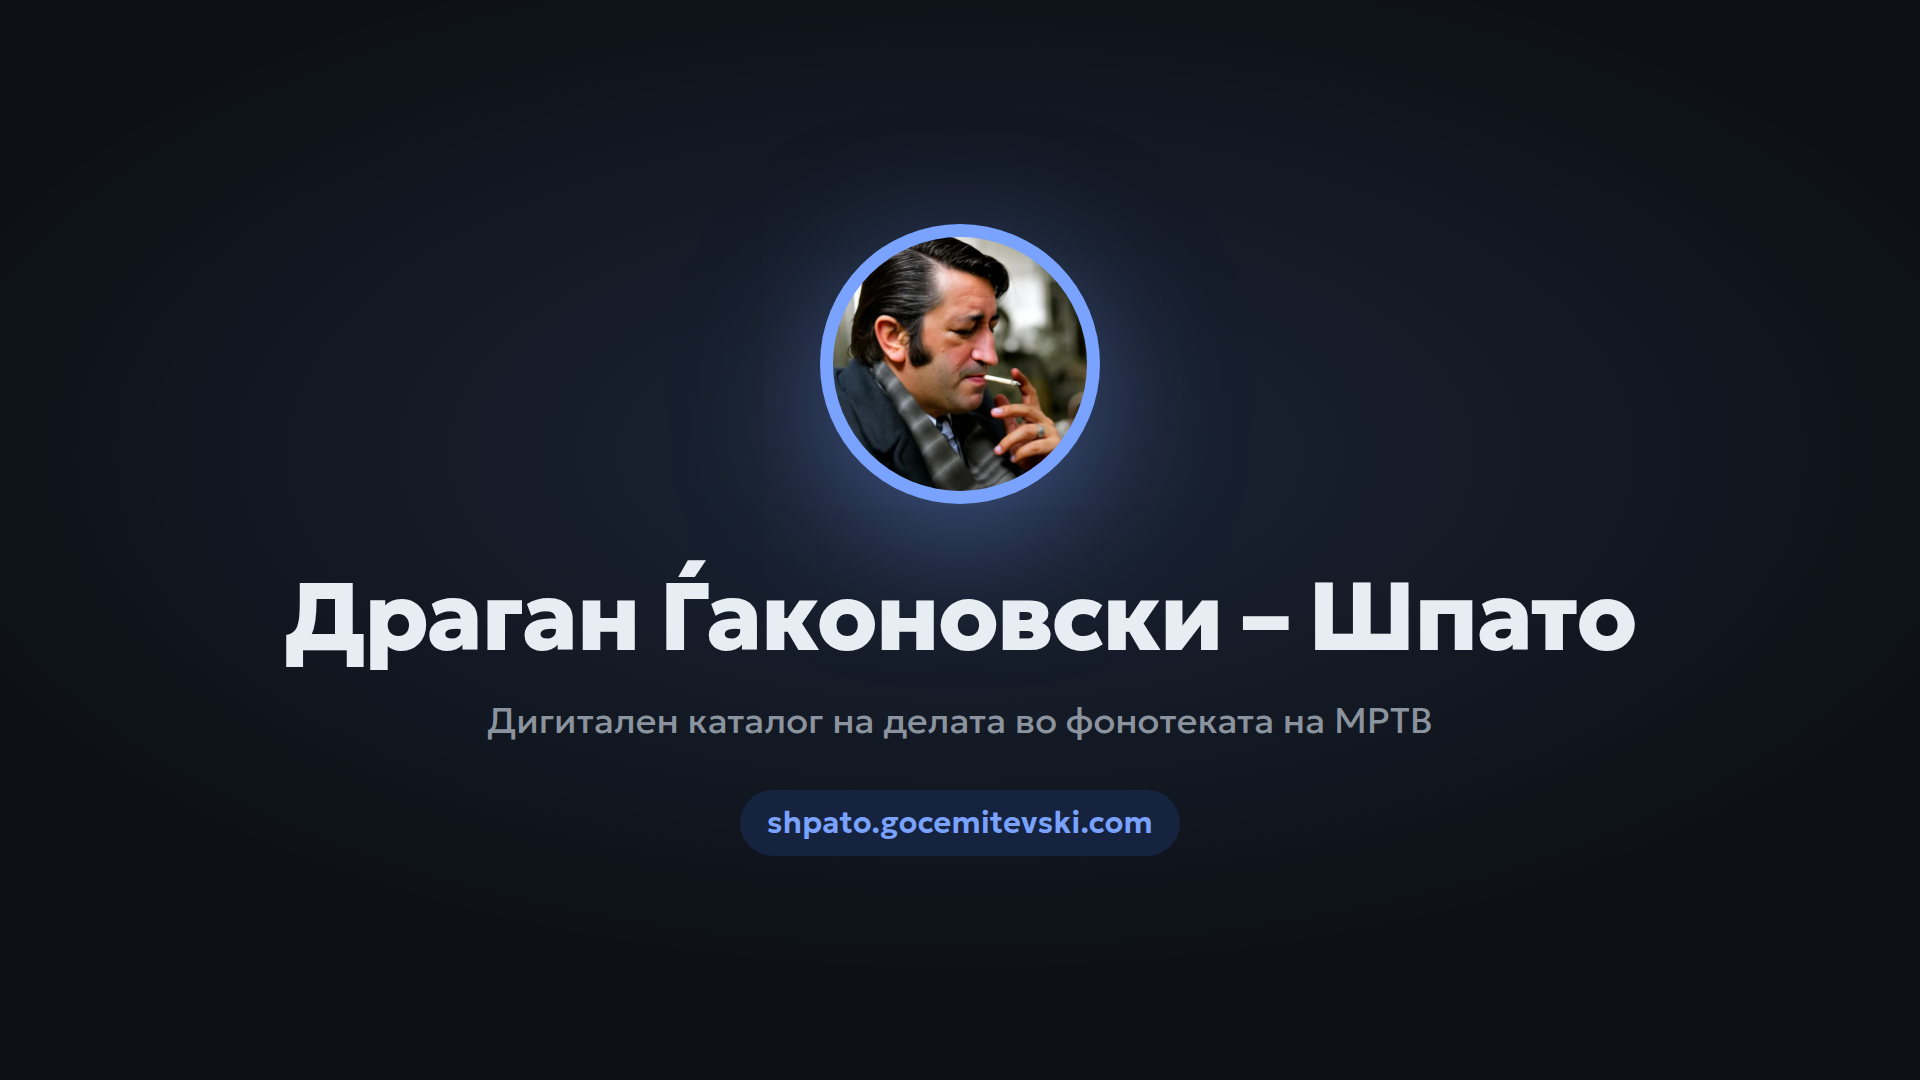
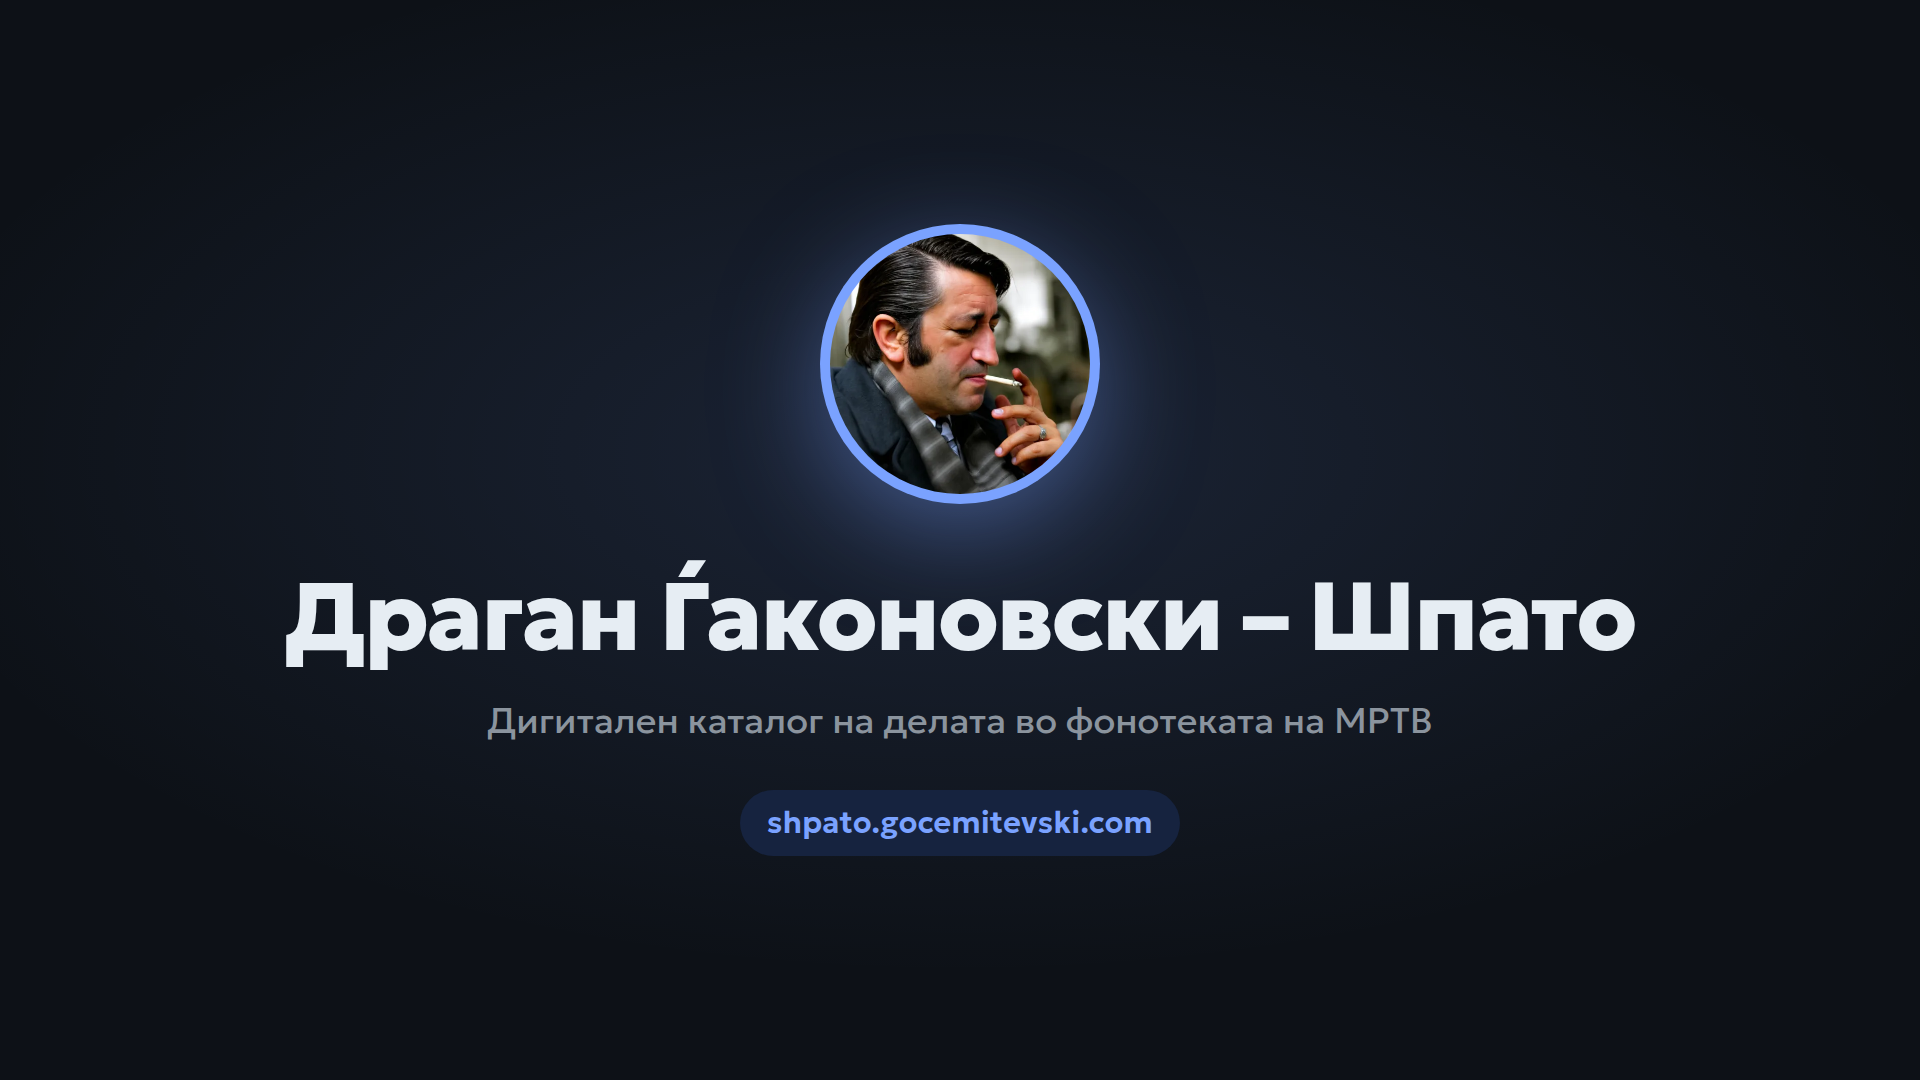
Scale the cover mark from the header's new 56px size
The cover's mark was built from the header's old 42px values, so its ring was
thicker than the site's. Rescale from 56px — a clean 5x: the ring goes 13px
to 10px and the halo to 0 25px 110px -10px.

Checked in the pixels: the ring is 10px of rgb(122,162,255) and symmetric on
both sides of the mark. The name, tagline and address chip are unchanged at
15.33:1, 5.95:1 and 6.27:1.

Changed region(s): [[0.4375, 0.2139, 0.5625, 0.3667], [0.4375, 0.3667, 0.5625, 0.4583]]

diff --git a/tools/cover.html b/tools/cover.html
@@ -45,17 +45,17 @@
 
     /* The brand mark, matching .brand-mark in the app: accent ring, the
        portrait, and the accent halo. Only the scale differs — the ring and the
-       halo are the header's 42px values scaled by 280/42. The portrait is left
-       uncropped so this is the same mark the site shows. */
+       halo are the header's 56px values scaled by 280/56 = 5. The portrait is
+       left uncropped so this is the same mark the site shows. */
     .cover-mark {
       width: 280px;
       height: 280px;
-      padding: 13px;
+      padding: 10px;
       border-radius: 50%;
       background: var(--accent);
       overflow: hidden;
       flex: none;
-      box-shadow: 0 33px 147px -13px color-mix(in srgb, var(--accent) 50%, transparent);
+      box-shadow: 0 25px 110px -10px color-mix(in srgb, var(--accent) 50%, transparent);
     }
     .cover-mark img {
       display: block;
